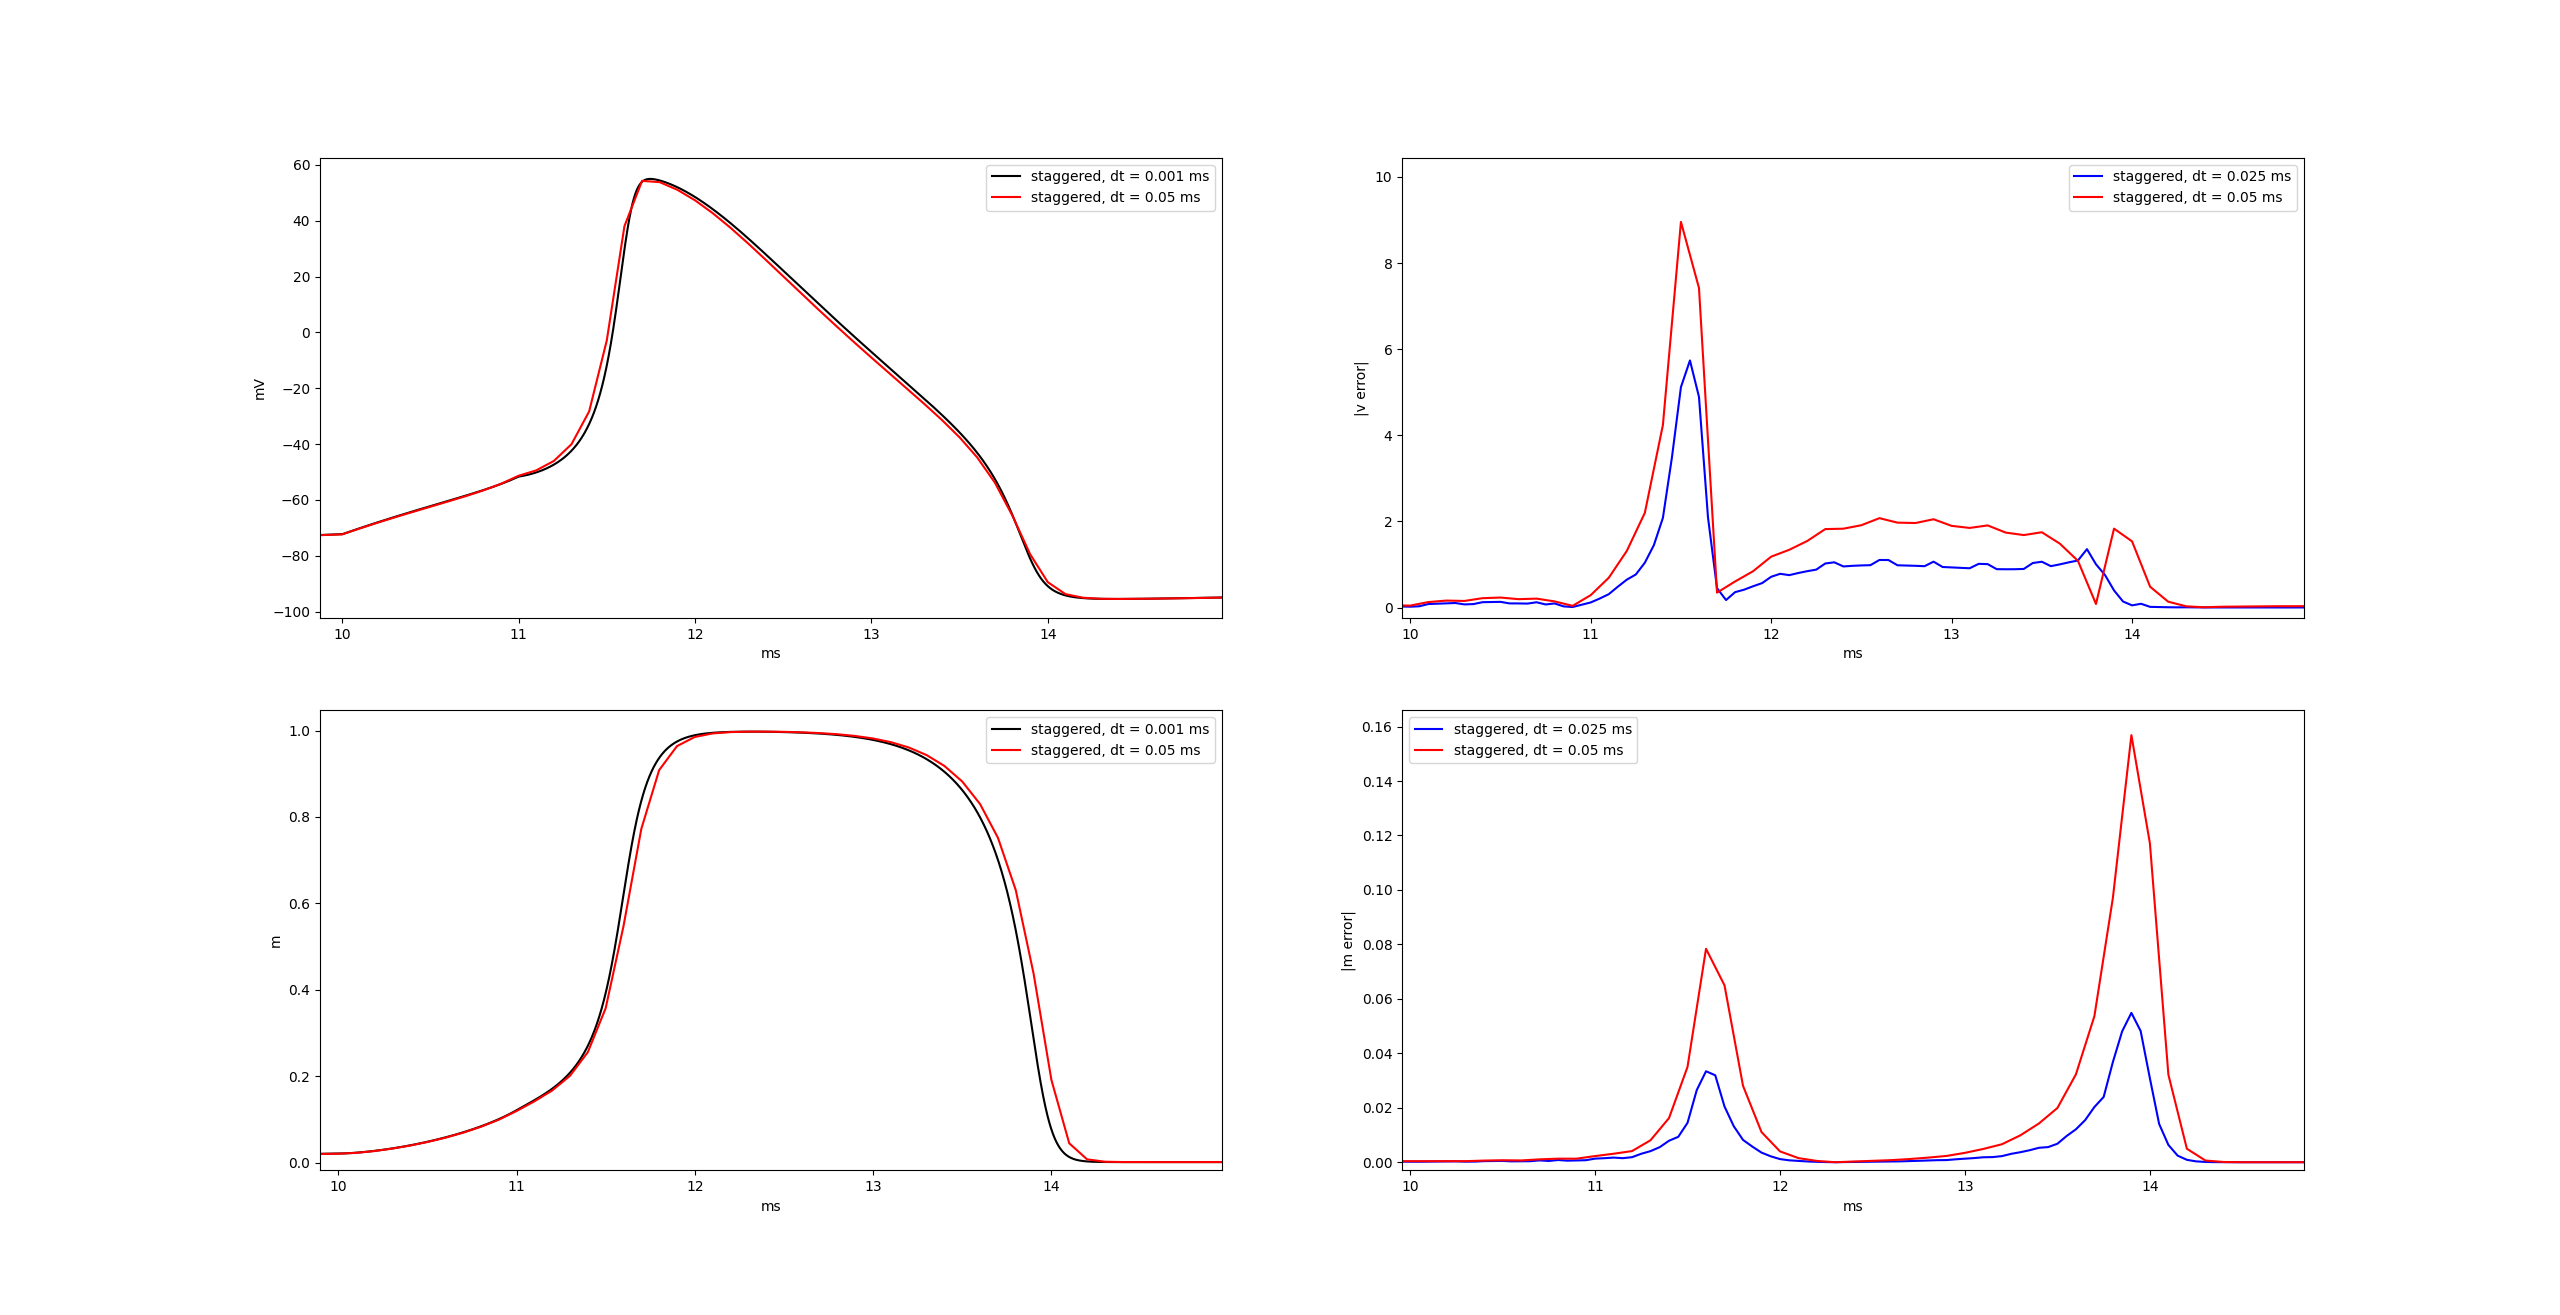
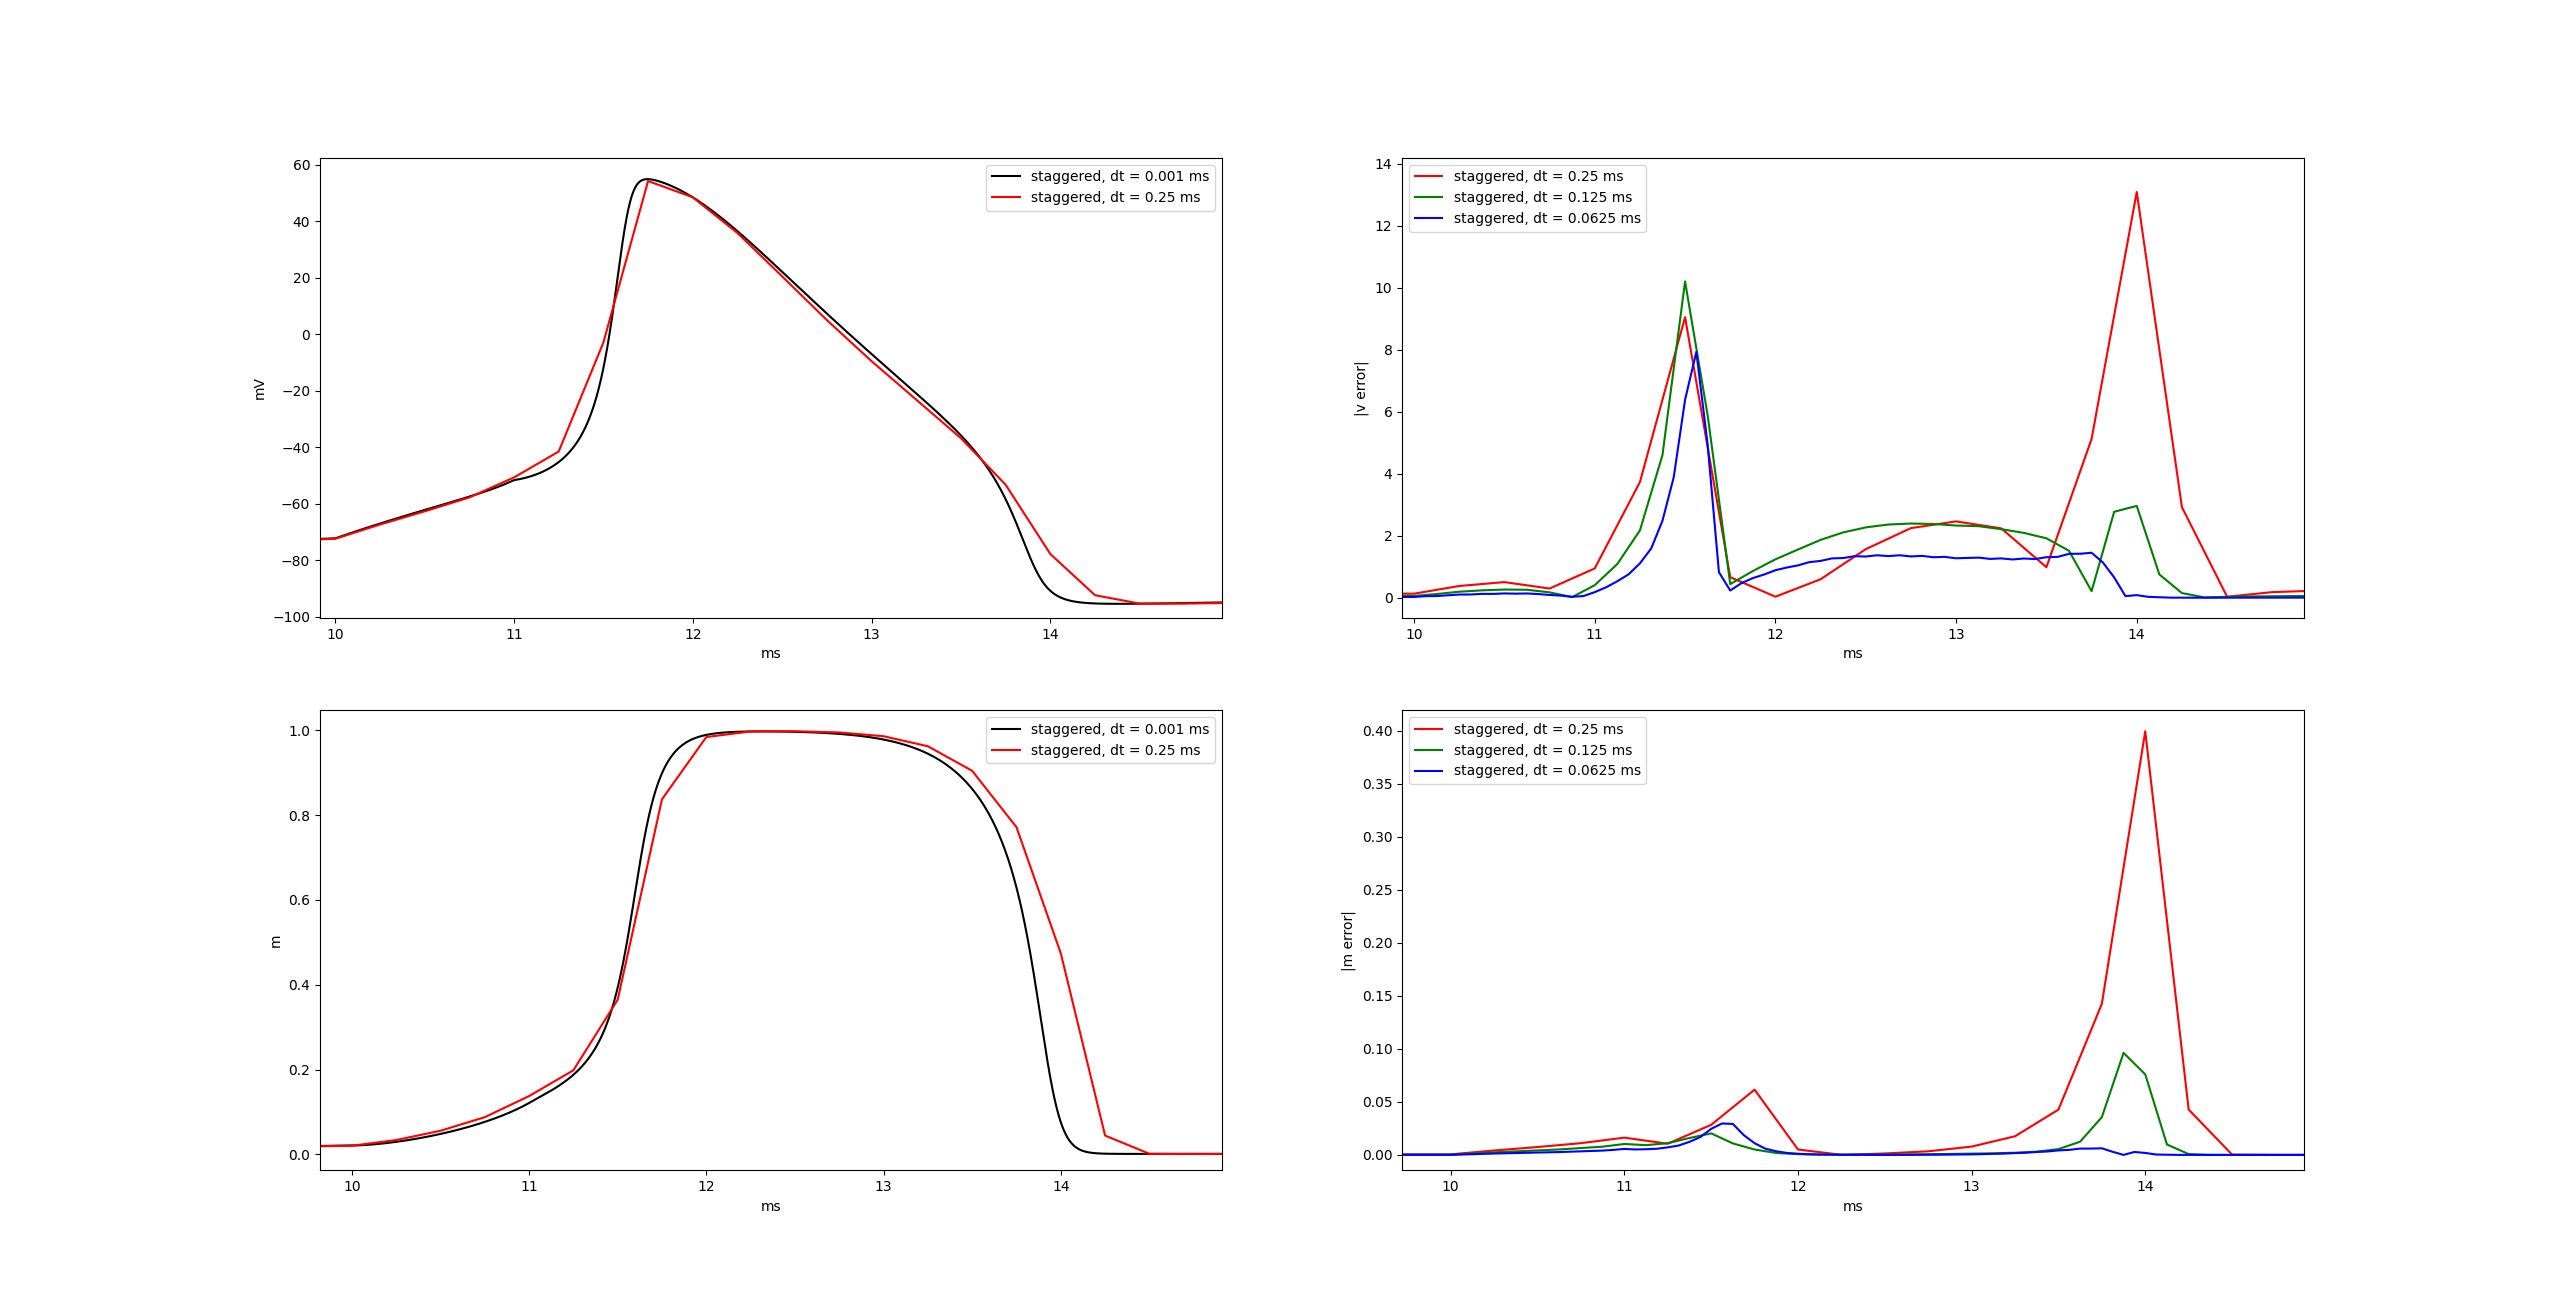
Reworked core integration code & accuracy example.

diff --git a/examples/Hodgkin_Huxley/__main__.py b/examples/Hodgkin_Huxley/__main__.py
@@ -87,48 +87,14 @@ class Experiment:
         self.m = [[] for _ in self.probes]
         m = AccessHandle(reaction_reference=("hh", "m"))
         gna = AccessHandle("na", conductance=True)
-        # self.time_span = 50e-3
-        # for tick in range(int(np.ceil(self.time_span / self.model.time_step))):
-        #     gna_inp = self.input_pattern(tick * self.model.time_step)
-        #     self.model.write_pointer(gna, self.soma[0].location, gna_inp)
         for tick, inp in enumerate(self.input_current):
             if inp:
                 self.soma[0].inject_current(self.stimulus, duration=1e-3)
             self.model.advance()
-            if self.model.stagger:
-                if not self.model.stagger_step:
-                    self.time_stamps.append((tick + 1) * self.time_step * 1e3)
-            else:
-                self.time_stamps.append((tick + 1) * self.time_step * 1e3)
+            self.time_stamps.append((tick + 1) * self.time_step * 1e3)
             for idx, p in enumerate(self.probes):
-                if self.model.stagger:
-                    if self.model.stagger_step:
-                        self.m[idx].append(self.model.read_pointer(m, p.location))
-                    else:
-                        self.v[idx].append(p.get_voltage() * 1e3)
-                else:
-                    self.v[idx].append(p.get_voltage() * 1e3)
-                    self.m[idx].append(self.model.read_pointer(m, p.location))
-
-def analyze_propagation():
-    caption = """
-Simulated action potential propagating through a single long axon with Hodgkin-
-Huxley type channels. A current injection at the soma of 0.2 nA for 1 ms causes
-the action potential. The axon terminates after 1000 μm which slightly alters
-the dynamics near that point."""
-    x = Experiment(probes=[0, .2, .4, .6, .8, 1.0], time_step=2.5e-6,)
-    colors = 'k purple b g y r'.split()
-    plt.figure("AP Propagation")
-    soma_coords = x.soma[-1].coordinates
-    for i, p in enumerate(x.probes):
-        dist = np.linalg.norm(np.subtract(soma_coords, p.coordinates))
-        plt.plot(x.time_stamps, x.v[i], colors[i],
-            label="Distance from soma: %g μm"%(dist*1e6))
-    plt.legend()
-    plt.title("Action Potential Propagation")
-    plt.xlabel('ms')
-    plt.figtext(0.5, 0.01, caption, horizontalalignment='center', fontsize=14)
-    plt.ylabel('mV')
+                self.v[idx].append(p.get_voltage() * 1e3)
+                self.m[idx].append(self.model.read_pointer(m, p.location))
 
 def analyze_accuracy():
     caption = ""
@@ -138,7 +104,7 @@ def analyze_accuracy():
         "axon_diameter": 4e-6,
         "soma_diameter": 4e-6,
         "stimulus": 0.025e-9,
-        # "length_step": .2e-6,
+        "length_step": .5e-6,
         "probes": [0],
     }
     def make_label(x):
@@ -160,59 +126,87 @@ def analyze_accuracy():
             error_m.append(abs(m - x_1.m[0][loc]))
         return (error_v, error_m)
 
-    def make_figure(stagger, fast, slow):
-        if stagger:
-            fast /= 2
-            slow /= 2
-            x_100 = Experiment(time_step = 100e-6 /2, stagger=stagger, **args)
-        else:
-            x_100 = Experiment(time_step = 100e-6, stagger=stagger, **args)
+    def make_figure(stagger):
+        x_250 = Experiment(time_step = 300e-6, stagger=stagger, **args)
+        x_slow = Experiment(time_step = 150e-6, stagger=stagger, **args)
+        x_fast = Experiment(time_step =  75e-6, stagger=stagger, **args)
+
+        x_250_error = measure_error(x_250)
+        x_fast_error = measure_error(x_fast)
+        x_slow_error = measure_error(x_slow)
 
         plt.subplot(2,2,1)
+        plt.plot(x_250.time_stamps, x_250.v[0], 'r',
+                label=make_label(x_250))
+        plt.plot(x_slow.time_stamps, x_slow.v[0], 'g',
+                label=make_label(x_slow))
+        plt.plot(x_fast.time_stamps, x_fast.v[0], 'b',
+                label=make_label(x_fast))
         plt.plot(x_1.time_stamps, x_1.v[0], 'k',
                 label=make_label(x_1))
-        plt.plot(x_100.time_stamps, x_100.v[0], 'r',
-                label=make_label(x_100))
         plt.legend()
         plt.xlabel('ms')
         plt.ylabel('mV')
 
         plt.subplot(2,2,3)
+        plt.plot(x_250.time_stamps, x_250.m[0], 'r',
+                label=make_label(x_250))
+        plt.plot(x_slow.time_stamps, x_slow.m[0], 'g',
+                label=make_label(x_slow))
+        plt.plot(x_fast.time_stamps, x_fast.m[0], 'b',
+                label=make_label(x_fast))
         plt.plot(x_1.time_stamps, x_1.m[0], 'k',
                 label=make_label(x_1))
-        plt.plot(x_100.time_stamps, x_100.m[0], 'r',
-                label=make_label(x_100))
         plt.legend()
         plt.xlabel('ms')
         plt.ylabel('m')
 
-        x_fast = Experiment(time_step = fast, stagger=stagger, **args)
-        x_slow = Experiment(time_step = slow, stagger=stagger, **args)
-        x_fast_error = measure_error(x_fast)
-        x_slow_error = measure_error(x_slow)
-
         plt.subplot(2,2,2)
+        plt.plot(x_250.time_stamps, x_250_error[0], 'r',
+                label=make_label(x_250))
+        plt.plot(x_slow.time_stamps, x_slow_error[0], 'g',
+                label=make_label(x_slow))
         plt.plot(x_fast.time_stamps, x_fast_error[0], 'b',
                 label=make_label(x_fast))
-        plt.plot(x_slow.time_stamps, x_slow_error[0], 'r',
-                label=make_label(x_slow))
         plt.legend()
         plt.xlabel('ms')
         plt.ylabel('|v error|')
 
         plt.subplot(2,2,4)
+        plt.plot(x_250.time_stamps, x_250_error[1], 'r',
+                label=make_label(x_250))
+        plt.plot(x_slow.time_stamps, x_slow_error[1], 'g',
+                label=make_label(x_slow))
         plt.plot(x_fast.time_stamps, x_fast_error[1], 'b',
                 label=make_label(x_fast))
-        plt.plot(x_slow.time_stamps, x_slow_error[1], 'r',
-                label=make_label(x_slow))
         plt.legend()
         plt.xlabel('ms')
         plt.ylabel('|m error|')
 
-    plt.figure("Figure 4.9")
-    make_figure(False, 10e-6, 20e-6)
-    plt.figure("Figure 4.10")
-    make_figure(True, 50e-6, 100e-6)
+    plt.figure("Unstaggered Time Steps")
+    make_figure(False)
+    plt.figure("Staggered Time Steps")
+    make_figure(True)
+
+def analyze_propagation():
+    caption = """
+Simulated action potential propagating through a single long axon with Hodgkin-
+Huxley type channels. A current injection at the soma of 0.2 nA for 1 ms causes
+the action potential. The axon terminates after 1000 μm which slightly alters
+the dynamics near that point."""
+    x = Experiment(probes=[0, .2, .4, .6, .8, 1.0], time_step=2.5e-6,)
+    colors = 'k purple b g y r'.split()
+    plt.figure("AP Propagation")
+    soma_coords = x.soma[-1].coordinates
+    for i, p in enumerate(x.probes):
+        dist = np.linalg.norm(np.subtract(soma_coords, p.coordinates))
+        plt.plot(x.time_stamps, x.v[i], colors[i],
+            label="Distance from soma: %g μm"%(dist*1e6))
+    plt.legend()
+    plt.title("Action Potential Propagation")
+    plt.xlabel('ms')
+    plt.figtext(0.5, 0.01, caption, horizontalalignment='center', fontsize=14)
+    plt.ylabel('mV')
 
 def analyze_length_step():
     x2 = Experiment(length_step=10e-6)
@@ -247,8 +241,8 @@ def analyze_axon_diameter():
     plt.ylabel('mV')
 
 experiments_index = {
-    "propagation":  analyze_propagation,
     "accuracy":     analyze_accuracy,
+    "propagation":  analyze_propagation,
     "length":       analyze_length_step,
     "diameter":     analyze_axon_diameter,
 }

diff --git a/neuwon/model.py b/neuwon/model.py
@@ -27,8 +27,8 @@ class Model:
         self.geometry = _Geometry(coordinates, parents, diameters)
         self._reactions = _AllReactions(reactions, insertions)
         all_pointers = self._reactions.pointers()
-        self._species = _AllSpecies(species, self.time_step, self.geometry, all_pointers)
-        self._electrics = _Electrics(self.time_step, self.geometry,
+        self._species = _AllSpecies(species, self.time_step / 2, self.geometry, all_pointers)
+        self._electrics = _Electrics(self.time_step / 2, self.geometry,
             intracellular_resistance, membrane_capacitance, initial_voltage)
         initial_values = {}
         for ptr in all_pointers:
@@ -39,7 +39,6 @@ class Model:
                     initial_values[ptr] = self.read_pointer(ptr, 0)
         self._reactions.bake(self.time_step, self.geometry, initial_values)
         self._injected_currents = Model._InjectedCurrents()
-        self.stagger_step = False
 
     def __len__(self):
         return len(self.geometry)
@@ -100,8 +99,6 @@ class Model:
         else: raise NotImplementedError(handle)
 
     def advance(self):
-        # Calculate the externally applied currents.
-        # self._injected_currents.advance(self.time_step, self._electrics)
         if self.stagger:
             """
             All systems (reactions & mechanisms, diffusions & electrics) are
@@ -113,26 +110,16 @@ class Model:
             For more information see: The NEURON Book, 2003.
             Chapter 4, Section: Efficient handling of nonlinearity.
             """
-            if not self.stagger_step:
-                self._injected_currents.advance(self.time_step * 2, self._electrics)
-                self._species.advance(self)
-                self._reactions.advance(self)
-            else:
-                self._reactions.advance(self)
-                # self._injected_currents.advance(self.time_step, self._electrics)
-                self._species.advance(self)
-            self.stagger_step = not self.stagger_step
-        else:
-            """
-            Naive integration strategy, for reference only.
-            """
             self._injected_currents.advance(self.time_step, self._electrics)
-            # Update diffusions & electrics for the whole time step using the
-            # state of the reactions at the start of the time step.
             self._species.advance(self)
-            # self._species.advance(self)
-            # Update the reactions for the whole time step using the
-            # concentrations & voltages from halfway through the time step.
+            self._reactions.advance(self)
+            self._species.advance(self)
+        else:
+            """ Naive integration strategy, for reference only. """
+            self._injected_currents.advance(self.time_step / 2, self._electrics)
+            self._species.advance(self)
+            self._injected_currents.advance(self.time_step / 2, self._electrics)
+            self._species.advance(self)
             self._reactions.advance(self)
         # self._check_data()
 

diff --git a/examples/AP_Propagation/__main__.py b/examples/AP_Propagation/__main__.py
@@ -7,7 +7,6 @@ from neuwon.growth import *
 from neuwon.analysis import Animation
 min_v = -90e-3
 max_v = +70e-3
-from graph_algorithms import depth_first_traversal as dft
 
 # Setup a neuron and its axonal arbor.
 r = 30e-6
